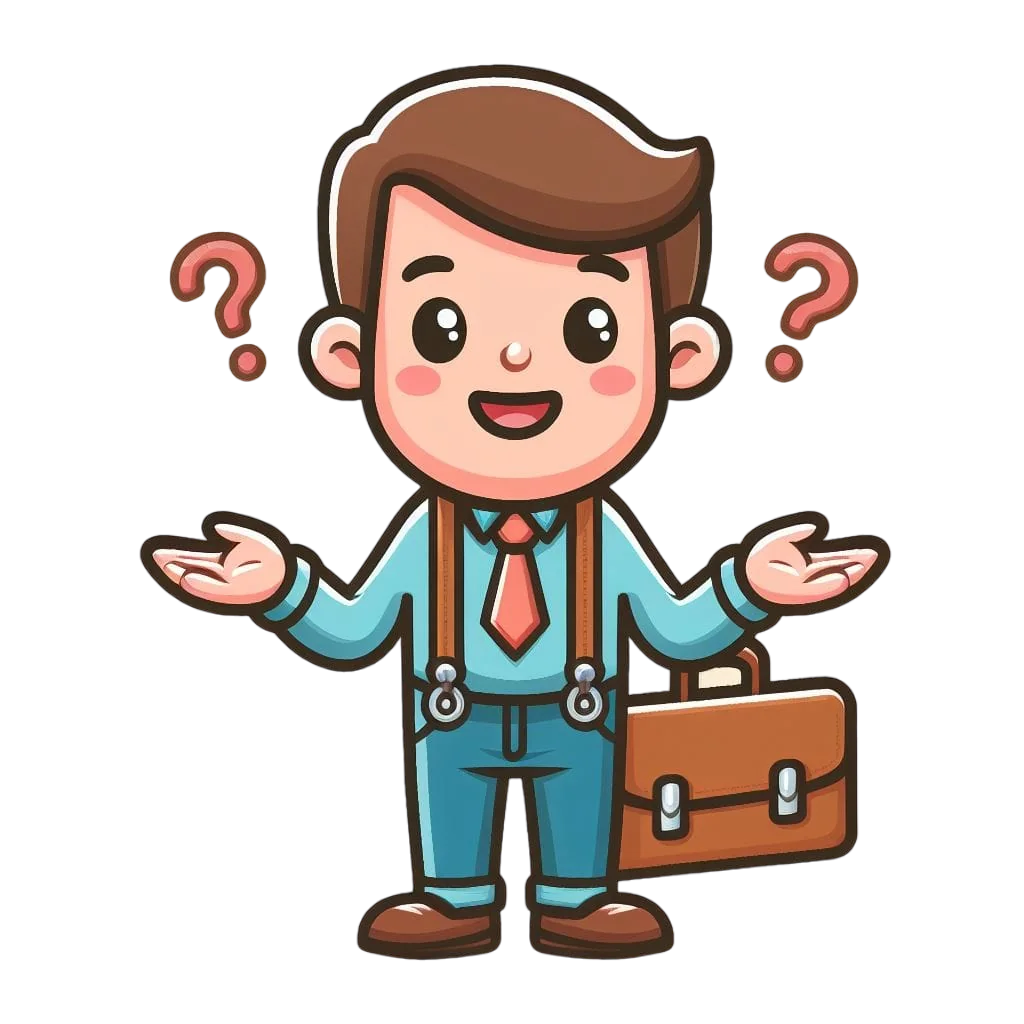
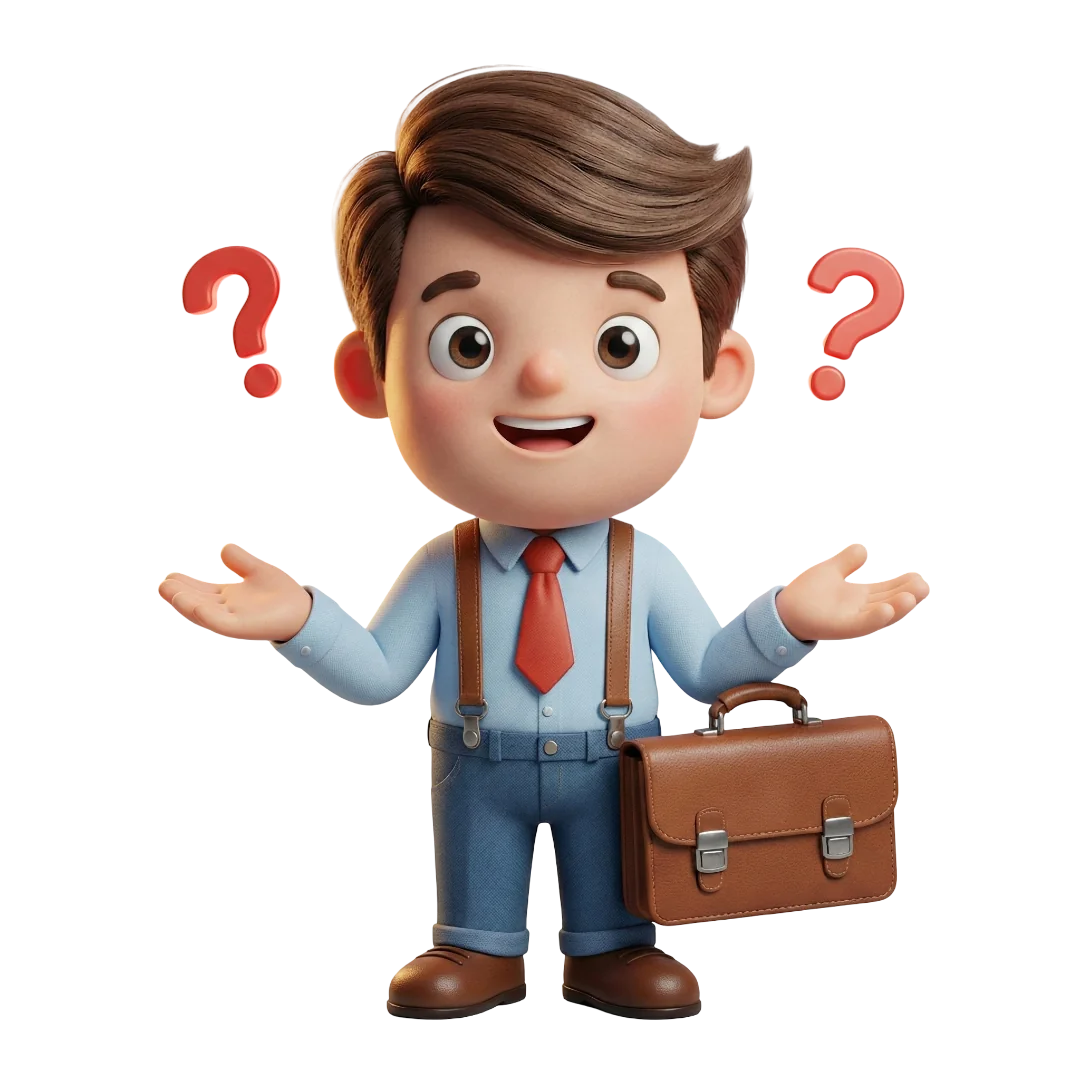
Updated all the Welcome page images along with removing the background

diff --git a/src/Modules/BeforeLogin/WelcomePage/WelcomePageModule.js b/src/Modules/BeforeLogin/WelcomePage/WelcomePageModule.js
@@ -73,20 +73,6 @@ const WelcomePageModule = () => {
         <Box className="welcome-page-module">
             {/* Hero Section */}
             <Box id="hero" sx={{ position: 'relative', py: { xs: 4, md: 8 }, overflow: 'hidden' }}>
-                <Box
-                    sx={{
-                        position: 'absolute',
-                        inset: 0,
-                        width: '100%',
-                        height: '100%',
-                        backgroundImage: `url(${"images/Background2.webp"})`,
-                        backgroundSize: 'cover',
-                        backgroundPosition: 'center',
-                        opacity: 0.82,
-                        zIndex: 0,
-                        transform: 'scaleX(-1)'
-                    }}
-                />
                 <Container maxWidth="lg" sx={{ position: 'relative', zIndex: 1 }}>
                     <Grid container spacing={4} alignItems="center" justifyContent="space-evenly">
                         <Grid item xs={12} md={6} sx={{ maxWidth: 490 }}>
@@ -154,6 +140,7 @@ const WelcomePageModule = () => {
 
             {/* About Section */}
             <Box id="about" sx={{ py: { xs: 4, md: 8 }, position: 'relative', overflow: 'hidden' }}>
+                
                 <Container maxWidth="lg">
                     <Grid container spacing={4} alignItems="center">
                         <Grid item xs={12} md={6} sx={{ maxWidth: 600 }}>
@@ -233,38 +220,11 @@ const WelcomePageModule = () => {
                         </Grid>
                     </Grid>
                 </Container>
-                <Box
-                    sx={{
-                        position: 'absolute',
-                        inset: 0,
-                        width: '100%',
-                        height: '100%',
-                        backgroundImage: `url(${"images/Background2.webp"})`,
-                        backgroundSize: 'cover',
-                        backgroundPosition: 'center',
-                        opacity: 0.82,
-                        zIndex: 0,
-                        transform: 'scaleX(-1) scaleY(-1)',
-                    }}
-                />
             </Box>
 
             {/* Features Section */}
             <Box id="features" sx={{ position: 'relative', py: { xs: 4, md: 8 }, overflow: 'hidden' }}>
-                <Box
-                    sx={{
-                        position: 'absolute',
-                        inset: 0,
-                        width: '100%',
-                        height: '100%',
-                        backgroundImage: `url(${"images/Background2.webp"})`,
-                        backgroundSize: 'cover',
-                        backgroundPosition: 'center',
-                        opacity: 0.82,
-                        zIndex: 0,
-                        transform: 'scaleX(-1)'
-                    }}
-                />
+                
                 <Container maxWidth="lg">
                     <motion.div
                         initial="hidden"
@@ -326,20 +286,7 @@ const WelcomePageModule = () => {
 
             {/* Benefits Section */}
             <Box id="benefits" sx={{ position: 'relative', py: { xs: 4, md: 8 } }}>
-                <Box
-                    sx={{
-                        position: 'absolute',
-                        inset: 0,
-                        width: '100%',
-                        height: '100%',
-                        backgroundImage: `url(${"images/Background2.webp"})`,
-                        backgroundSize: 'cover',
-                        backgroundPosition: 'center',
-                        opacity: 0.82,
-                        zIndex: 0,
-                        transform: 'scaleX(-1) scaleY(-1)',
-                    }}
-                />
+                
                 <Container maxWidth="lg">
                     <Grid container spacing={4} alignItems="center" justifyContent="center">
                         <Grid item xs={12} md={6} sx={{ maxWidth: 500 }}>
@@ -414,20 +361,7 @@ const WelcomePageModule = () => {
 
             {/* CTA Section */}
             <Box id="cta" sx={{ position: 'relative', py: { xs: 4, md: 8 } }}>
-                <Box
-                    sx={{
-                        position: 'absolute',
-                        inset: 0,
-                        width: '100%',
-                        height: '100%',
-                        backgroundImage: `url(${"images/Background2.webp"})`,
-                        backgroundSize: 'cover',
-                        backgroundPosition: 'center',
-                        opacity: 0.82,
-                        zIndex: 0,
-                        transform: 'scaleX(-1) scaleY(1)'
-                    }}
-                />
+                
                 <Container maxWidth="lg">
                     <Grid container spacing={4} alignItems="center">
                         <Grid item xs={12} md={6}>
@@ -467,20 +401,7 @@ const WelcomePageModule = () => {
 
             {/* Testimonials Section */}
             <Box id="testimonials" sx={{ position: 'relative', py: { xs: 4, md: 8 } }}>
-                <Box
-                    sx={{
-                        position: 'absolute',
-                        inset: 0,
-                        width: '100%',
-                        height: '100%',
-                        backgroundImage: `url(${"images/Background2.webp"})`,
-                        backgroundSize: 'cover',
-                        backgroundPosition: 'center',
-                        opacity: 0.82,
-                        zIndex: 0,
-                        transform: 'scaleX(-1) scaleY(-1)',
-                    }}
-                />
+                
                 <Container maxWidth="lg">
                     <motion.div
                         initial="hidden"
@@ -560,20 +481,7 @@ const WelcomePageModule = () => {
 
             {/* FAQ Section */}
             <Box id="faq" sx={{ position: "relative", py: { xs: 4, md: 8 } }}>
-                <Box
-                    sx={{
-                        position: 'absolute',
-                        inset: 0,
-                        width: '100%',
-                        height: '100%',
-                        backgroundImage: `url(${"images/Background2.webp"})`,
-                        backgroundSize: 'cover',
-                        backgroundPosition: 'center',
-                        opacity: 0.82,
-                        zIndex: 0,
-                        transform: 'scaleX(-1) scaleY(1)'
-                    }}
-                />
+                
                 <Container maxWidth="lg">
                     <motion.div
                         initial="hidden"

diff --git a/scripts/optimize-images.js b/scripts/optimize-images.js
@@ -17,7 +17,9 @@ const imagesToOptimize = [
   'feature-success-stories.png',
   'screenshot.png',
   'Homepage1.png',
-  'hero-boy-with-dog.png'
+  'hero-boy-with-dog.png',
+  'illustration-treasure-chest.png',
+  'illustration-person-finding-items.png',
 ];
 
 const publicDir = path.join(__dirname, '..', 'public', 'images');
